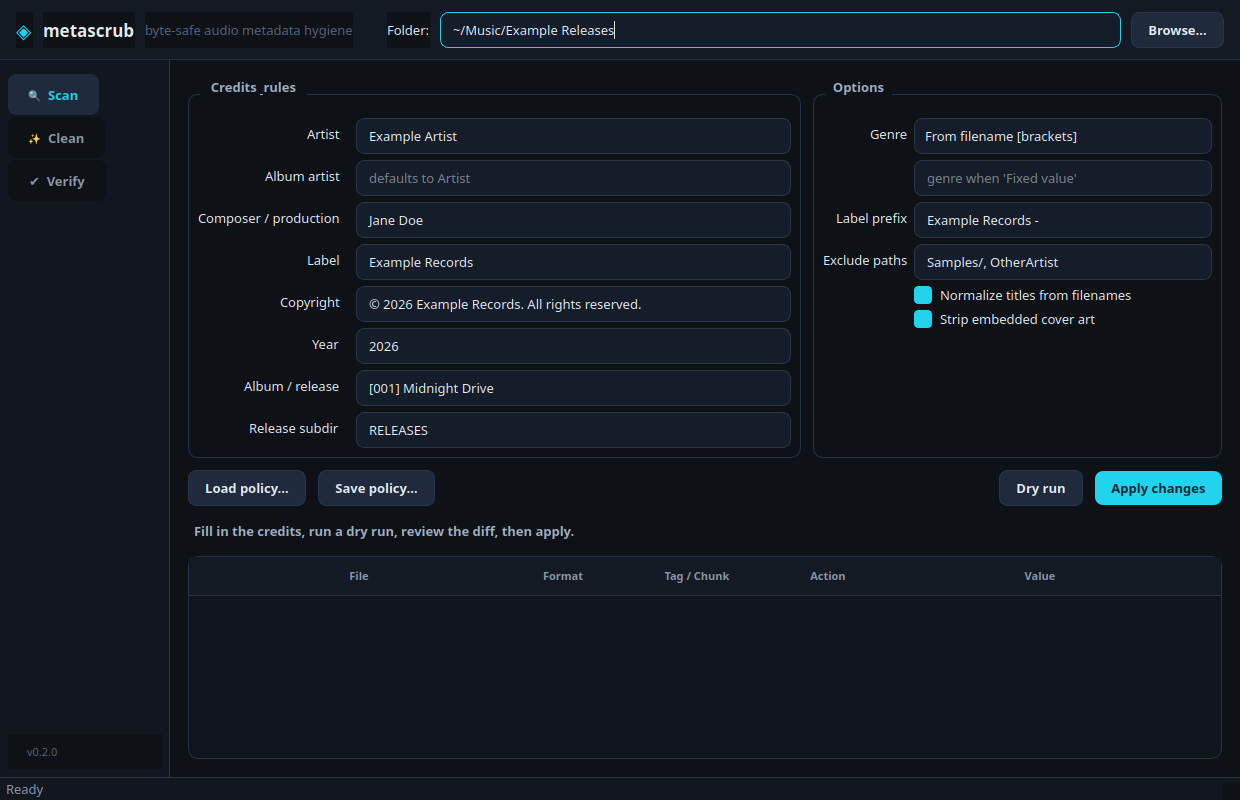
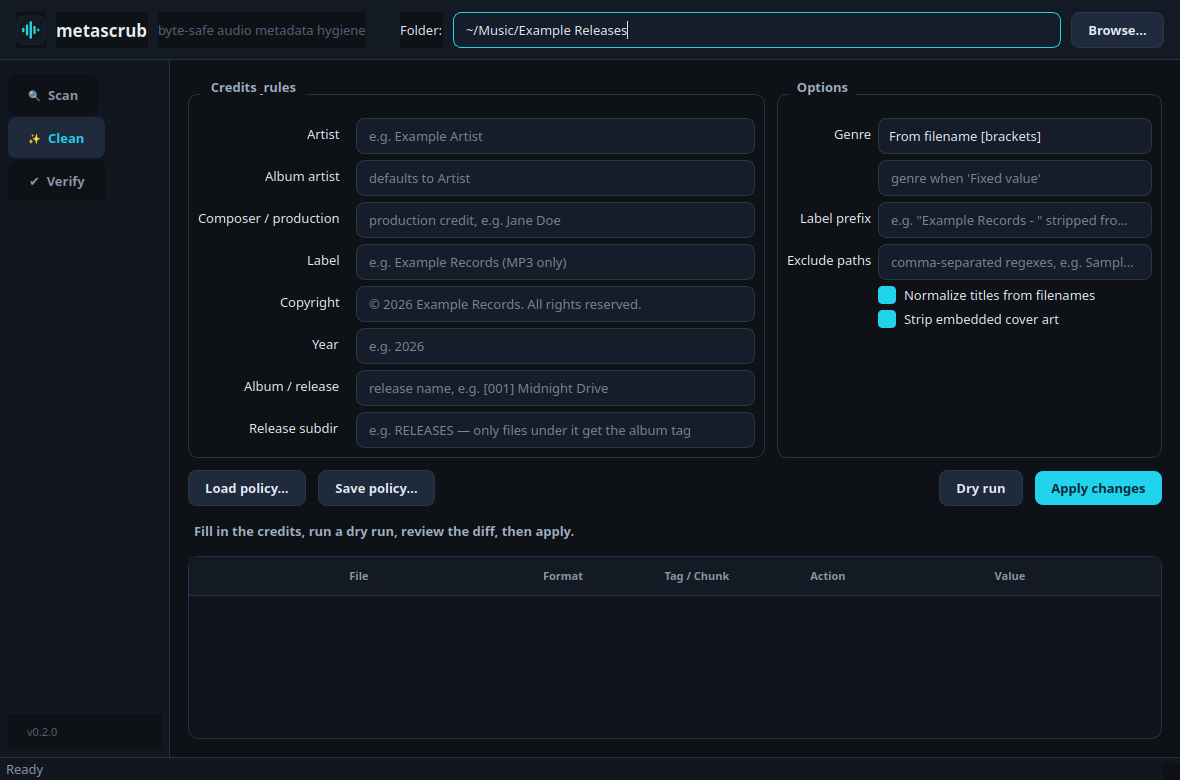
Add installer pipeline: PyInstaller binaries + tag-triggered releases
- .github/workflows/build.yml: test job (pytest, Qt offscreen), PyInstaller
  build matrix (linux/windows/macos) for CLI + GUI, softprops release upload
- packaging/{cli_main,gui_main}.py: PyInstaller entry points
- GUI: embed the app icon as an SVG string rendered via QSvgRenderer, so the
  frozen binaries need no data files; set app- and window-level icons
- README: prebuilt-binaries install section w/ unsigned-binary notes
- docs: refreshed screenshots (icon in header, populated scan view)

diff --git a/src/metascrub/gui/main_window.py b/src/metascrub/gui/main_window.py
@@ -3,8 +3,9 @@ from __future__ import annotations
 
 from pathlib import Path
 
-from PySide6.QtCore import QSettings, Qt
-from PySide6.QtGui import QIcon
+from PySide6.QtCore import QByteArray, QSettings, Qt
+from PySide6.QtGui import QIcon, QPainter, QPixmap
+from PySide6.QtSvg import QSvgRenderer
 from PySide6.QtWidgets import (
     QFileDialog,
     QFrame,
@@ -21,16 +22,25 @@ from PySide6.QtWidgets import (
 
 from .. import __version__
 from .pages import CleanPage, ScanPage, VerifyPage
+from .theme import ICON_SVG
 
-_ICON = Path(__file__).parent / "assets" / "icon.svg"
+
+def app_icon(size: int = 128) -> QIcon:
+    """Render the embedded SVG icon (no data files - PyInstaller-friendly)."""
+    pixmap = QPixmap(size, size)
+    pixmap.fill(Qt.GlobalColor.transparent)
+    renderer = QSvgRenderer(QByteArray(ICON_SVG.encode("utf-8")))
+    painter = QPainter(pixmap)
+    renderer.render(painter)
+    painter.end()
+    return QIcon(pixmap)
 
 
 class MainWindow(QMainWindow):
     def __init__(self):
         super().__init__()
         self.setWindowTitle(f"metascrub {__version__}")
-        if _ICON.exists():
-            self.setWindowIcon(QIcon(str(_ICON)))
+        self.setWindowIcon(app_icon())
         self.resize(1180, 780)
 
         self._settings = QSettings("metascrub", "metascrub")
@@ -48,8 +58,9 @@ class MainWindow(QMainWindow):
         h.setContentsMargins(16, 12, 16, 12)
         h.setSpacing(10)
 
-        icon_lbl = QLabel("◈")
+        icon_lbl = QLabel()
         icon_lbl.setObjectName("appIcon")
+        icon_lbl.setPixmap(app_icon(30).pixmap(30, 30))
         title = QLabel("metascrub")
         title.setObjectName("appTitle")
         subtitle = QLabel("byte-safe audio metadata hygiene")

diff --git a/src/metascrub/gui/theme.py b/src/metascrub/gui/theme.py
@@ -110,6 +110,16 @@ QScrollBar::handle:horizontal { background: #2a3548; border-radius: 5px; min-wid
 QScrollBar::add-line:horizontal, QScrollBar::sub-line:horizontal { width: 0; }
 """
 
+ICON_SVG = """<svg xmlns="http://www.w3.org/2000/svg" width="128" height="128" viewBox="0 0 128 128">
+  <rect x="4" y="4" width="120" height="120" rx="26" fill="#141a24"/>
+  <rect x="4" y="4" width="120" height="120" rx="26" fill="none" stroke="#263248" stroke-width="2"/>
+  <rect x="26" y="54" width="10" height="20" rx="5" fill="#22d3ee"/>
+  <rect x="42" y="40" width="10" height="48" rx="5" fill="#2dd4bf"/>
+  <rect x="58" y="26" width="10" height="76" rx="5" fill="#22d3ee"/>
+  <rect x="74" y="46" width="10" height="36" rx="5" fill="#2dd4bf"/>
+  <rect x="90" y="58" width="10" height="12" rx="5" fill="#22d3ee"/>
+</svg>"""
+
 
 def apply_theme(app) -> None:
     app.setStyleSheet(QSS)

diff --git a/src/metascrub/gui/app.py b/src/metascrub/gui/app.py
@@ -14,7 +14,7 @@ def main(argv: Optional[List[str]] = None) -> int:
         return 2
 
     from .. import __version__
-    from .main_window import MainWindow
+    from .main_window import MainWindow, app_icon
     from .theme import apply_theme
 
     app = QApplication(argv if argv is not None else sys.argv)
@@ -22,6 +22,7 @@ def main(argv: Optional[List[str]] = None) -> int:
     app.setApplicationVersion(__version__)
     app.setOrganizationName("metascrub")
     apply_theme(app)
+    app.setWindowIcon(app_icon())
 
     window = MainWindow()
     window.show()

diff --git a/packaging/gui_main.py b/packaging/gui_main.py
@@ -1,0 +1,7 @@
+"""PyInstaller entry point for the standalone metascrub GUI binary."""
+import sys
+
+from metascrub.gui.app import main
+
+if __name__ == "__main__":
+    sys.exit(main())

diff --git a/packaging/cli_main.py b/packaging/cli_main.py
@@ -1,0 +1,7 @@
+"""PyInstaller entry point for the standalone metascrub CLI binary."""
+import sys
+
+from metascrub.cli import main
+
+if __name__ == "__main__":
+    sys.exit(main())

diff --git a/README.md b/README.md
@@ -26,6 +26,24 @@ verify → prove nothing revealing remains (exit 1 if it does — CI-friendly)
 
 ## Install
 
+### Prebuilt binaries (no Python needed)
+
+Grab an archive for your platform from
+[Releases](https://github.com/VanguardArts/metascrub/releases):
+
+| Platform | CLI | GUI |
+|----------|-----|-----|
+| Linux    | `metascrub-cli-linux.tar.gz`   | `metascrub-gui-linux.tar.gz` |
+| Windows  | `metascrub-cli-windows.zip`    | `metascrub-gui-windows.zip` |
+| macOS    | `metascrub-cli-macos.tar.gz`   | `metascrub-gui-macos.zip` (`.app`) |
+
+The binaries are unsigned, so Windows SmartScreen and macOS Gatekeeper will
+warn on first run. On Windows choose **More info → Run anyway**; on macOS
+right-click the app → **Open** (or run
+`xattr -d com.apple.quarantine metascrub-gui.app`).
+
+### From source (pip)
+
 ```bash
 pip install .          # or: pipx install .
 pip install .[gui]     # with the desktop GUI (PySide6)
